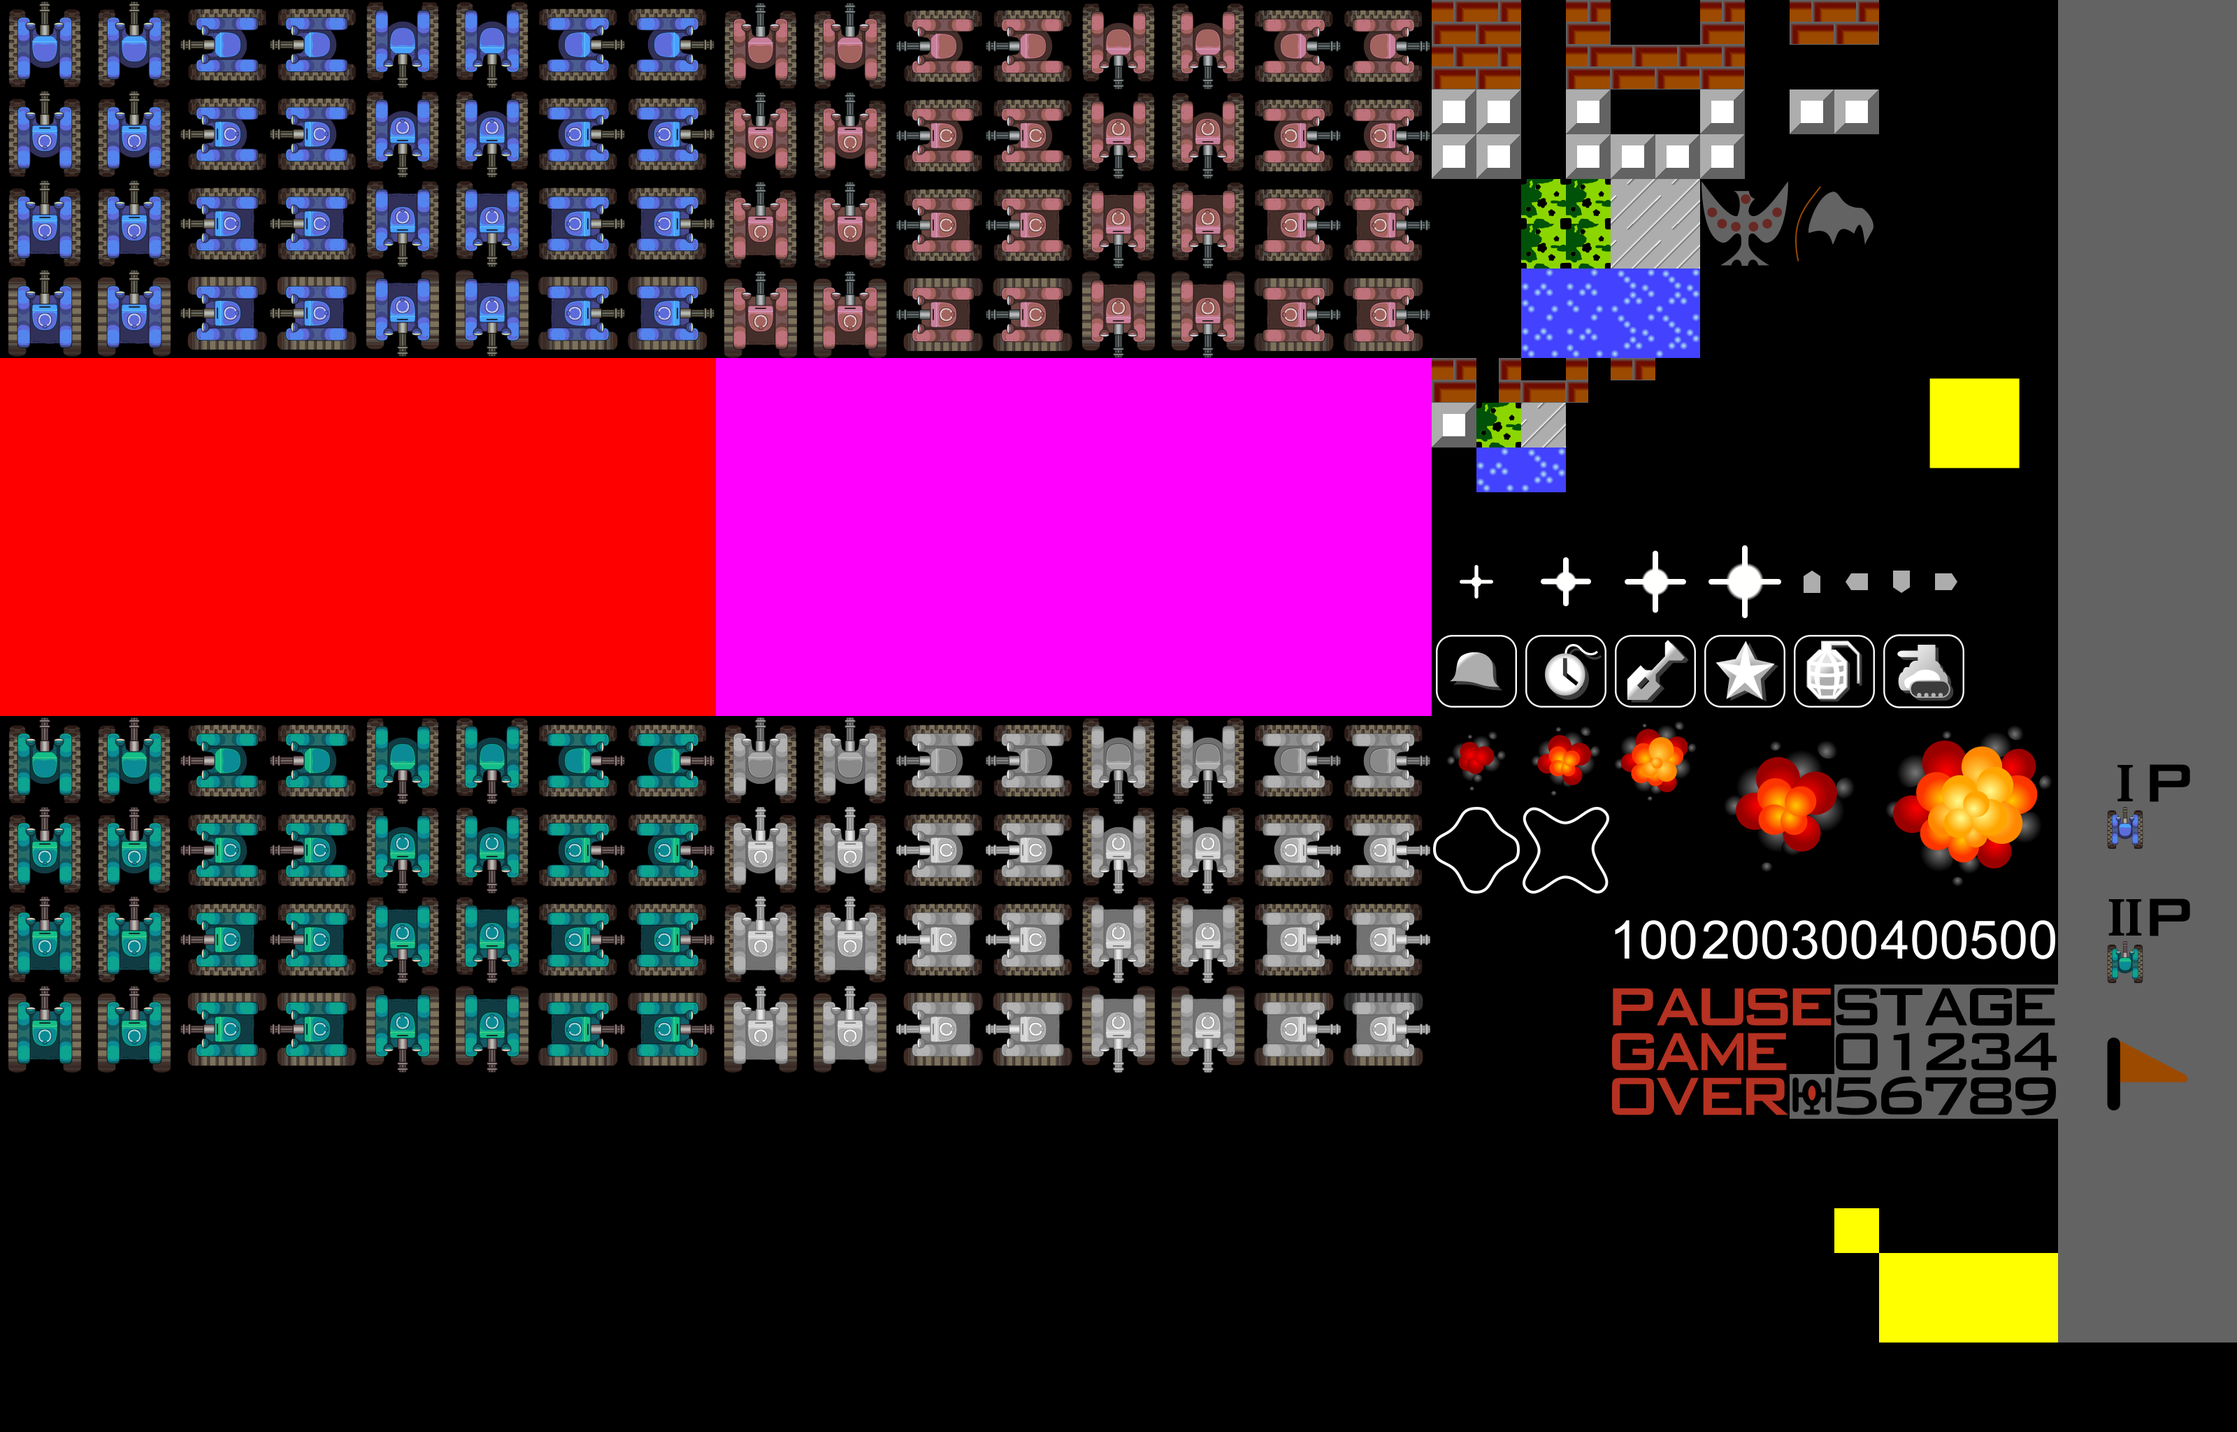
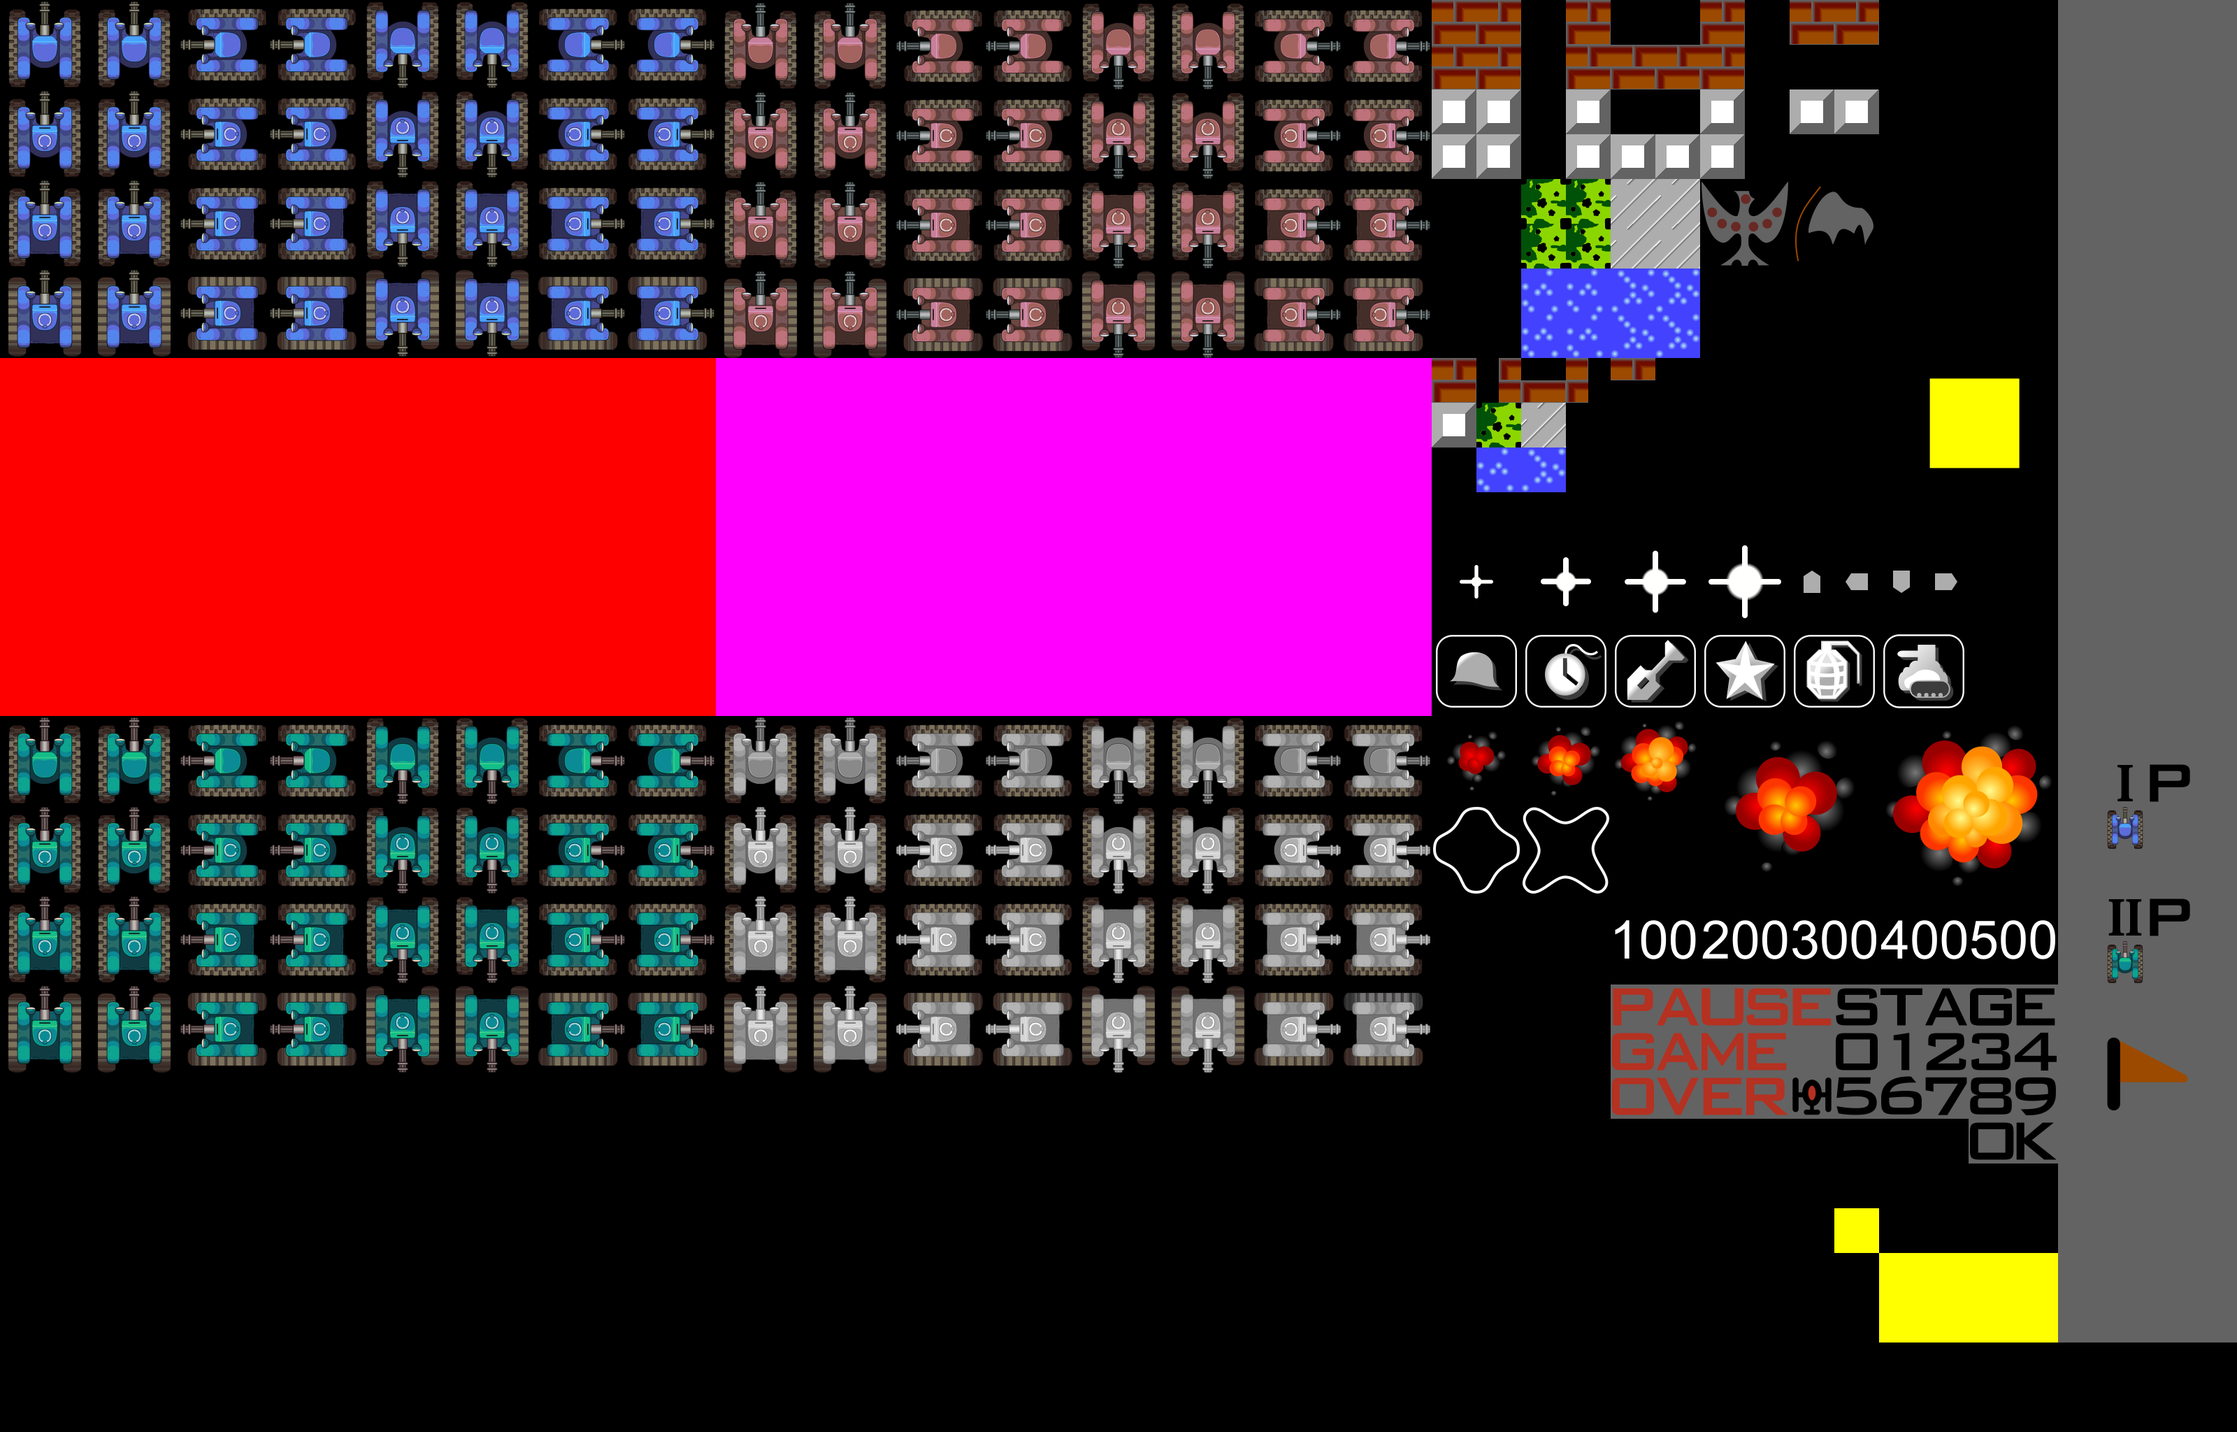
starting and ending added (single stage only)

Changed region(s): [[0.7188, 0.6875, 0.8438, 0.7812], [0.875, 0.7812, 0.9375, 0.8125]]

diff --git a/objectClasses.py b/objectClasses.py
@@ -4,22 +4,22 @@ import numpy as np
 
 TIMERS = {
     'player_immortal': 5 * FPS,
-    'enemy_immortal': 0 * FPS,
+    'enemy_immortal': 2 * FPS,
     'reward_immortal': 10 * FPS,
     'freeze': 10 * FPS,
-    'reward_duration': 10 * FPS,
+    'reward_duration': 15 * FPS,
     'blink': FPS // 2,
     'enemy_respawn_normal': 10 * FPS,
-    'enemy_respawn_urgent': 3 * FPS
+    'enemy_respawn_urgent': 3 * FPS,
+    'enemy_spawn_delay': 2 * FPS
 }
 
 SPEED = {
     'move': BLOCK_SIZE / 2,
     'move_delay': 10,
-    'bullet': BLOCK_SIZE,
+    'bullet': 2 * BLOCK_SIZE,
     'bullet_delay': 2 * FPS
 }
-
 
 STATES = {
     'ongoing': 0,
@@ -149,7 +149,7 @@ class Tank(pg.sprite.Sprite):
             self.level = min(self.level + 1, 3)
         else:
             self.level = max(self.level - 1, 0)
-        print(self.level)
+        # print(self.level)
         self.image = self.images[self.level * 8 + self.direction]
         if self.level == 3:
             self.shoot_count_max = SPEED['bullet_delay'] // 2
@@ -220,7 +220,8 @@ class Tank(pg.sprite.Sprite):
 
 
 class Enemy(Tank):
-    def __init__(self, pos, game_area_, images=image_library[enemy1_sprite_start:enemy1_sprite_end], level=0):
+    def __init__(self, pos, game_area_, images=image_library[enemy1_sprite_start:enemy1_sprite_end],
+                 level=0):
         super().__init__(pos, game_area_, images)
         #
         self.direction = DIRECTION["S"]
@@ -234,6 +235,42 @@ class Enemy(Tank):
         ]
         self.inertia_state = 0
         self.shoot_probability = .5
+        #
+        # if shine is True:
+        #    self.start_countdown = TIMERS['enemy_spawn_delay']
+        #    self.groups()[0].add(Shine(self, self.game_area))
+
+    def update(self):
+        if self.is_alive:
+            if self.hit_by is None or self.immortal is True:
+                if self.shoot_count > 0:
+                    self.shoot_count = (self.shoot_count + 1) % self.shoot_count_max
+                if self.level == 3 and self.shoot_count == 10:
+                    bullet_ = Bullet(self, self.game_area)
+                    self.groups()[0].add(bullet_)
+                    # self.obstacles.add(bullet_)
+                #
+                if self.immortal_timer > 0:
+                    self.immortal = True
+                    self.hit_by = None
+                    if not self.has_shield:
+                        self.groups()[0].add(Shine(self, self.game_area))
+                        self.has_shield = True
+                    self.immortal_timer -= 1
+                    self.image = self.images[-1]
+                else:
+                    self.immortal = False
+                    self.has_shield = False
+                    self.automate()
+            else:
+                self.blast()
+        else:
+            if self.lives > 0:
+                self.respawn_counter -= 1
+                if self.respawn_counter == 0:
+                    self.spawn()
+            else:
+                self.kill()
 
     def automate(self):
         if self.frozen is True:
@@ -312,7 +349,7 @@ class EnemySpecial(Enemy):
         this_choice = np.random.choice(range(6), 1, p=REWARD_PROBABILITY)[0]
         this_x = np.random.randint(0, 13, 1)[0]
         this_y = np.random.randint(1, 12, 1)[0]
-        print(this_choice, this_x, this_y)
+        # print(this_choice, this_x, this_y)
         if this_choice == 0:
             self.rewards.add(RewardShield(pos=(2 * this_x * BLOCK_SIZE, 2 * this_y * BLOCK_SIZE)))
         elif this_choice == 1:
@@ -334,7 +371,7 @@ class Player(Tank):
         self.direction = DIRECTION["N"]
         self.image = images[self.direction]
         #
-        self.lives = 3
+        self.lives = 2
         self.immortal_timer = TIMERS['player_immortal']
         #
         self.is_player = True
@@ -592,6 +629,30 @@ class Shield(pg.sprite.Sprite):
             self.kill()
 
 
+class Shine(pg.sprite.Sprite):
+    def __init__(self, owner, game_area_, images=image_library[shine_sprite_start:shine_sprite_end]):
+        super().__init__()
+        self.images = images
+        self.image_count = 0
+        self.image = self.images[self.image_count]
+        self.rect = self.image.get_rect()
+        self.owner = owner
+        self.rect.center = owner.rect.center
+        self.game_area = game_area_
+        self.timer = TIMERS['enemy_spawn_delay']
+        self.order = [0, 1, 2, 3, 2, 1]
+
+    def update(self):
+        if self.timer > 0:
+            self.rect.center = self.owner.rect.center
+            if (12 * self.timer) % FPS == 0:
+                self.image_count = (self.image_count + 1) % 6
+            self.image = self.images[self.order[self.image_count]]
+            self.timer -= 1
+        else:
+            self.kill()
+
+
 class Blast(pg.sprite.Sprite):
     def __init__(self, owner, game_area_, images=image_library[blast_sprite_start:blast_sprite_end]):
         super().__init__()
@@ -773,17 +834,58 @@ class EnemyGenerator:
         if self.respawn_counter < 1:
             if location is None:
                 location = np.random.randint(3)
-            enemy = EnemySpecial(pos=self.spawn_locations[location], game_area_=self.game_area, level=level) \
-                if is_special else Enemy(pos=self.spawn_locations[location], game_area_=self.game_area, level=level)
-            self.all_sprites.add(enemy)
-            self.enemy_group.add(enemy)
-            enemy.partners = self.enemy_group
-            enemy.opponents = self.player_group
-            enemy.obstacles = self.obstacle_group  # enemy.obstacles.add(obstacle_group)
-            enemy.bullet_exceptions.add(self.ocean_group)
-            enemy.bullet_list = self.bullet_list
-            enemy.rewards = self.rewards
-            #
-            self.enemies_remaining -= 1
-            self.respawn_counter = TIMERS['enemy_respawn_normal']
+            placeholder = pg.sprite.Sprite()
+            placeholder.rect = pg.Rect(self.spawn_locations[location], (2 * BLOCK_SIZE, 2 * BLOCK_SIZE))
+            if pg.sprite.spritecollideany(placeholder, self.enemy_group) is None and \
+                    pg.sprite.spritecollideany(placeholder, self.player_group) is None:
+                enemy = EnemySpecial(pos=self.spawn_locations[location], game_area_=self.game_area, level=level) \
+                    if is_special else Enemy(pos=self.spawn_locations[location], game_area_=self.game_area, level=level)
+                self.all_sprites.add(enemy)
+                self.enemy_group.add(enemy)
+                enemy.partners = self.enemy_group
+                enemy.opponents = self.player_group
+                enemy.obstacles = self.obstacle_group  # enemy.obstacles.add(obstacle_group)
+                enemy.bullet_exceptions.add(self.ocean_group)
+                enemy.bullet_list = self.bullet_list
+                enemy.rewards = self.rewards
+                #
+                self.enemies_remaining -= 1
+                self.respawn_counter = TIMERS['enemy_respawn_normal']
+            else:
+                self.respawn_counter += FPS // 2
+            placeholder.kill()
+
+
+class StatusDisplay:
+    def __init__(self):
+        self.text_first_images = image_library[display_first_start:display_second_start]
+        self.text_second_images = image_library[display_second_start:display_end]
+        self.num_images = image_library[stat_num_sprite_start:stat_num_sprite_end]
+
+        self.back_pallet = pg.Rect((8 * BLOCK_SIZE, 12 * BLOCK_SIZE), (11 * BLOCK_SIZE, 3 * BLOCK_SIZE))
+        self.first_pallet = self.text_first_images[0].get_rect(topleft=(9 * BLOCK_SIZE, 13 * BLOCK_SIZE))
+        self.second_pallet = [
+            self.text_second_images[0].get_rect(topleft=(14 * BLOCK_SIZE, 13 * BLOCK_SIZE)),
+            self.text_second_images[0].get_rect(topleft=(15 * BLOCK_SIZE, 13 * BLOCK_SIZE)),
+            self.text_second_images[0].get_rect(topleft=(16 * BLOCK_SIZE, 13 * BLOCK_SIZE)),
+            self.text_second_images[0].get_rect(topleft=(17 * BLOCK_SIZE, 13 * BLOCK_SIZE))
+        ]
+
+    def draw(self, game_state, stage='000'):
+        pg.draw.rect(SCREEN, COLORS['static'], self.back_pallet)
+        if game_state == STATES['ongoing']:
+            # print('test')
+            SCREEN.blit(self.text_first_images[0], self.first_pallet)
+            for i in range(3):
+                SCREEN.blit(self.num_images[int(stage[i])], self.second_pallet[i+1])
+        elif game_state == STATES['win']:
+            SCREEN.blit(self.text_first_images[0], self.first_pallet)
+            for i in range(2):
+                SCREEN.blit(self.text_second_images[int(i-2)], self.second_pallet[i + 2])
+        elif game_state == STATES['loose']:
+            SCREEN.blit(self.text_first_images[-1], self.first_pallet)
+            for i in range(4):
+                SCREEN.blit(self.text_second_images[i], self.second_pallet[i])
+        else:
+            pass
 

diff --git a/spritesheet.py b/spritesheet.py
@@ -116,10 +116,16 @@ def load_sprites(block_size, resolution_scale, fullpath='res/tank_res_high.png',
     shield_sprite_start = bullet_sprite_end
     shield_sprite_end = shield_sprite_start + 2
 
+    shine_sprite_list = (
+        (512, 192, 32, 32), (544, 192, 32, 32), (576, 192, 32, 32), (608, 192, 32, 32)
+    )
+    shine_sprite_start = shield_sprite_end
+    shine_sprite_end = shine_sprite_start + 4
+
     blast_sprite_list = (
         (608, 256, 64, 64), (672, 256, 64, 64)
     )
-    blast_sprite_start = shield_sprite_end
+    blast_sprite_start = shine_sprite_end
     blast_sprite_end = blast_sprite_start + 2
 
     obstacle_start_val_x = 16 * 32
@@ -146,9 +152,9 @@ def load_sprites(block_size, resolution_scale, fullpath='res/tank_res_high.png',
     bird_sprite_end = bird_sprite_start + 2
 
     reward_sprite_list = (
-        (512, 222, 32, 32), (544, 222, 32, 32), (576, 222, 32, 32),
-        (608, 222, 32, 32), (640, 222, 32, 32), (672, 222, 32, 32),
-        (704, 222, 32, 32)
+        (512, 224, 32, 32), (544, 224, 32, 32), (576, 224, 32, 32),
+        (608, 224, 32, 32), (640, 224, 32, 32), (672, 224, 32, 32),
+        (704, 224, 32, 32)
     )
     reward_shield_sprite = bird_sprite_end
     reward_freeze_sprite = reward_shield_sprite + 1
@@ -168,6 +174,15 @@ def load_sprites(block_size, resolution_scale, fullpath='res/tank_res_high.png',
     stat_num_sprite_start = stat_enemy_sprite + 1
     stat_num_sprite_end = stat_num_sprite_start + 10
 
+    display_sprite_list = (
+        (656, 352, 80, 16), (576, 352, 80, 16), (576, 368, 80, 16),  # stage, pause, game
+        (576, 384, 16, 16), (592, 384, 16, 16), (608, 384, 16, 16), (624, 384, 16, 16),  # o, v, e, r
+        (704, 400, 16, 16), (720, 400, 16, 16)  # o, k
+    )
+    display_first_start = stat_num_sprite_end
+    display_second_start = display_first_start + 3
+    display_end = display_second_start + 6
+
     all_sprite_list = sprite_rescale(
         player1_sprite_list +
         player2_sprite_list +
@@ -175,11 +190,13 @@ def load_sprites(block_size, resolution_scale, fullpath='res/tank_res_high.png',
         enemy2_sprite_list +
         bullet_sprite_list +
         shield_sprite_list +
+        shine_sprite_list +
         blast_sprite_list +
         obstacle_sprite_list +
         bird_sprite_list +
         reward_sprite_list +
-        stat_sprite_list,
+        stat_sprite_list +
+        display_sprite_list,
         new_scale=resolution_scale
     )
 
@@ -197,6 +214,7 @@ def load_sprites(block_size, resolution_scale, fullpath='res/tank_res_high.png',
         enemy2_sprite_start, enemy2_sprite_end, \
         bullet_sprite_start, bullet_sprite_end, \
         shield_sprite_start, shield_sprite_end, \
+        shine_sprite_start, shine_sprite_end, \
         blast_sprite_start, blast_sprite_end, \
         obstacle_brick_sprite_start, obstacle_brick_sprite_end, \
         obstacle_steel_sprite, obstacle_forest_sprite, obstacle_ice_sprite, \
@@ -205,7 +223,8 @@ def load_sprites(block_size, resolution_scale, fullpath='res/tank_res_high.png',
         reward_shield_sprite, reward_freeze_sprite, reward_fortify_sprite, \
         reward_upgrade_sprite, reward_blast_sprite, reward_life_sprite, reward_empty_sprite, \
         stat_pallet_sprite, stat_enemy_sprite, \
-        stat_num_sprite_start, stat_num_sprite_end
+        stat_num_sprite_start, stat_num_sprite_end, \
+        display_first_start, display_second_start, display_end
 
 
 def sprite_rescale(sprite_list, new_scale):

diff --git a/main.py b/main.py
@@ -67,6 +67,7 @@ if __name__ == '__main__':
     this_round = Round()
     bird.round = this_round
     obstacle_group.add(bird)
+    countdown_start = TIMERS['enemy_spawn_delay']
 
     # add obstacles
     all_sprites.add(obstacle_group)
@@ -130,6 +131,7 @@ if __name__ == '__main__':
 
     temp_count = 0
     stat_board = StatBoard(player1=agent1, player2=agent2, enemy_generator=enemy_generator)
+    status_display = StatusDisplay()
     # stat_board.enemy_generator = enemy_generator.enemies_remaining
     while not done:
         """
@@ -150,10 +152,18 @@ if __name__ == '__main__':
             if event.type == pg.QUIT:
                 done = True
 
-        if not this_round.state:
+        if enemy_generator.enemies_remaining == 0 and len(enemy_group) == 0:
+            this_round.completed()
+
+        if agent1.lives + agent2.lives == 0:
+            this_round.failed()
+
+        if not this_round.finished and countdown_start == 0:
             pressed_keys = pg.key.get_pressed()
             agent1.control(pressed_keys)
             agent2.control(pressed_keys)
+        else:
+            countdown_start = np.maximum(0, countdown_start - 1)
 
         all_sprites.update()
         all_rewards.update()
@@ -171,6 +181,9 @@ if __name__ == '__main__':
         forest_group.draw(SCREEN)
         all_rewards.draw(SCREEN)
         stat_board.draw()
+        #
+        if countdown_start > 0 or this_round.finished:
+            status_display.draw(game_state=this_round.state)
 
         # draw border
         """

diff --git a/init.py b/init.py
@@ -53,6 +53,7 @@ image_library, \
     enemy2_sprite_start, enemy2_sprite_end, \
     bullet_sprite_start, bullet_sprite_end, \
     shield_sprite_start, shield_sprite_end, \
+    shine_sprite_start, shine_sprite_end, \
     blast_sprite_start, blast_sprite_end, \
     obstacle_brick_sprite_start, obstacle_brick_sprite_end, \
     obstacle_steel_sprite, obstacle_forest_sprite, obstacle_ice_sprite, \
@@ -61,7 +62,8 @@ image_library, \
     reward_shield_sprite, reward_freeze_sprite, reward_fortify_sprite, \
     reward_upgrade_sprite, reward_blast_sprite, reward_life_sprite, reward_empty_sprite , \
     stat_pallet_sprite, stat_enemy_sprite, \
-    stat_num_sprite_start, stat_num_sprite_end = \
+    stat_num_sprite_start, stat_num_sprite_end, \
+    display_first_start, display_second_start, display_end = \
     load_sprites(fullpath='res/tank_res_high.png',
                  color_key=COLORS["key"],
                  block_size=BLOCK_SIZE,
